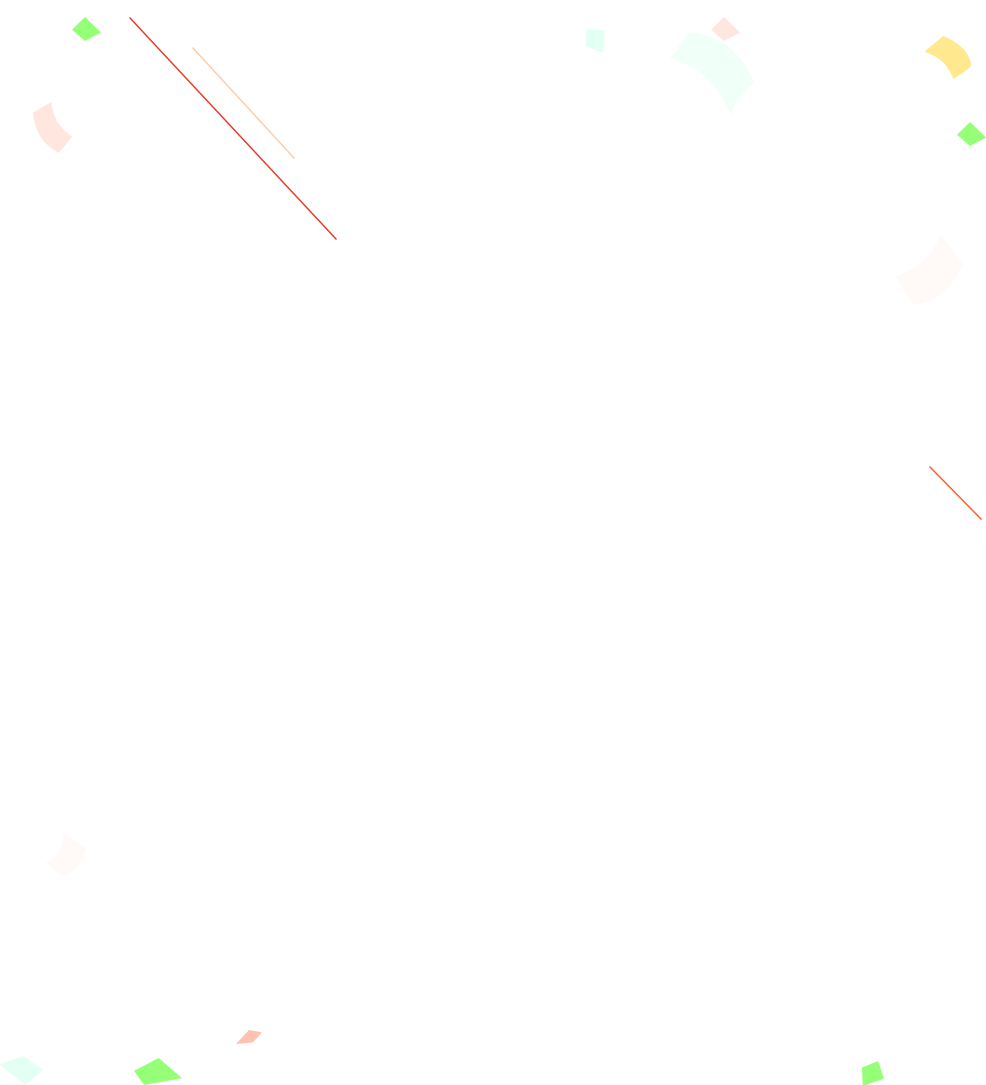
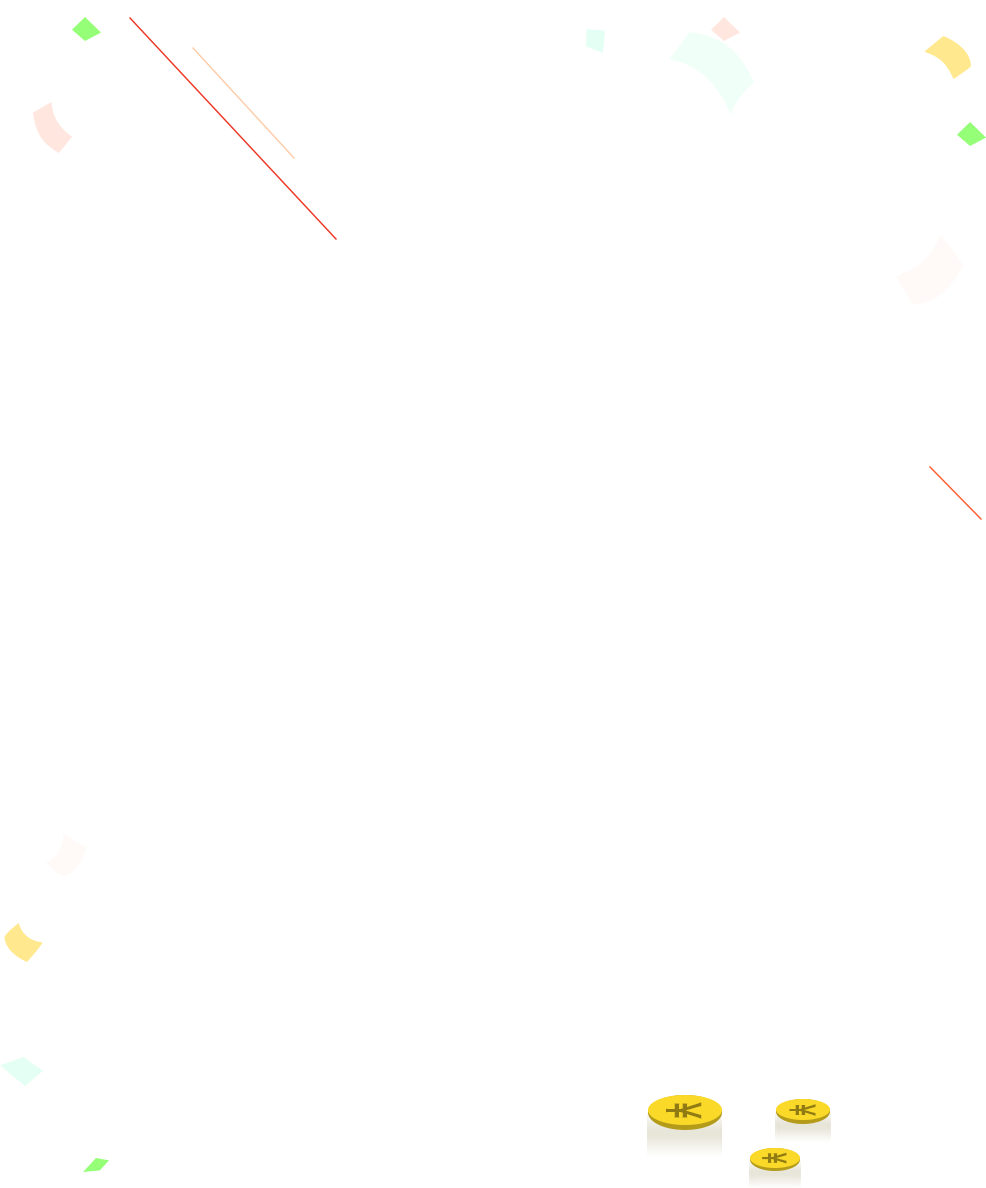
红包功能

diff --git a/pages/redPackage/red.js b/pages/redPackage/red.js
@@ -6,42 +6,46 @@ Page({
    */
   data: {
     animation:'',
-    animation_pc1:'',
-    animation_pc2: '',
-    animation_pc3: '',
-    animation_pc4: ''
+    animationContent:'',
+    ishid_red_package_content:true,
+    red_content_txt_front:'',
+    isHidden_bt:true
   },
 
   /**
    * 生命周期函数--监听页面加载
    */
   onLoad: function (options) {
-    this.animation_pc1 = wx.createAnimation({
-      duration: 200, timingFunction: 'ease-out', delay: 100
-    });
-      this.animation_pc2 = wx.createAnimation({
-        duration: 200, timingFunction: 'ease-out', delay: 100
-      });
-    this.animation_pc3 = wx.createAnimation({
-      duration: 200, timingFunction: 'ease-out', delay: 100
-    });
-    this.animation_pc4 = wx.createAnimation({
-      duration: 200, timingFunction: 'ease-out', delay: 100
+    
+    this.animationContent = wx.createAnimation({
+      duration: 200, timingFunction: 'ease-out', delay: (3000+100+30+150+100)
     });
     this.animation = wx.createAnimation({
-      transformOrigin: 'left top 0',
+      transformOrigin: '50% 50% 0',
       success: function (res) {
         console.log(res)
       }
     })
   },
   coinClick:function(e){
-    this.animation.translateY(-45).step({ duration: 200, timingFunction: 'ease-out', delay: 100})
-    this.animation.translateY(400).step({ duration: 400, delay: 150, timingFunction:'ease-in' })
+    this.animation.rotateY(360*2).step({ duration: 3000, timingFunction: 'ease-out', delay: 100})
+    this.animation.opacity(0).step({ duration: 30, delay: 150, timingFunction:'ease-in' })
     this.setData({
+      ishid_red_package_content:false,
       animation: this.animation.export()
     })
-
+    let distance = -e.currentTarget.offsetTop *1.444444;
+    this.animationContent.translateY(distance).step();
+    this.setData({
+      animationContent: this.animationContent.export()
+    })
+    let that = this;
+    setTimeout(() => {
+      that.setData({
+        isHidden_bt: false,
+        red_content_txt_front: 'red_content_txt_front'
+      })
+    }, 3000 + 100 + 30 + 150 + 100 + 200 +100)
   },
 
   /**
@@ -55,16 +59,7 @@ Page({
    * 生命周期函数--监听页面显示
    */
   onShow: function () {
-    this.animation_pc1.translateY(400).step({ duration: 200, timingFunction: 'ease-out', delay: 1000 });
-    this.animation_pc2.translateY(400).step({ duration: 400, timingFunction: 'ease-in', delay: 3000, });
-    this.animation_pc3.translateY(400).step({ duration: 200, timingFunction: 'ease-out', delay: 4000 });
-    this.animation_pc4.translateY(400).step({ duration: 400, timingFunction: 'ease-in', delay: 500, });
-    this.setData({
-      animation_pc1: this.animation_pc1.export(),
-      animation_pc2: this.animation_pc2.export(),
-      animation_pc3: this.animation_pc3.export(),
-      animation_pc4: this.animation_pc4.export(),
-    })
+
   },
 
   /**

diff --git a/pages/index/index.js b/pages/index/index.js
@@ -1,4 +1,4 @@
-
+ 
 var bannerHeight;
 var da = require('../../data/data.js').data;
 var data0 = da.xianshimiaosha;
